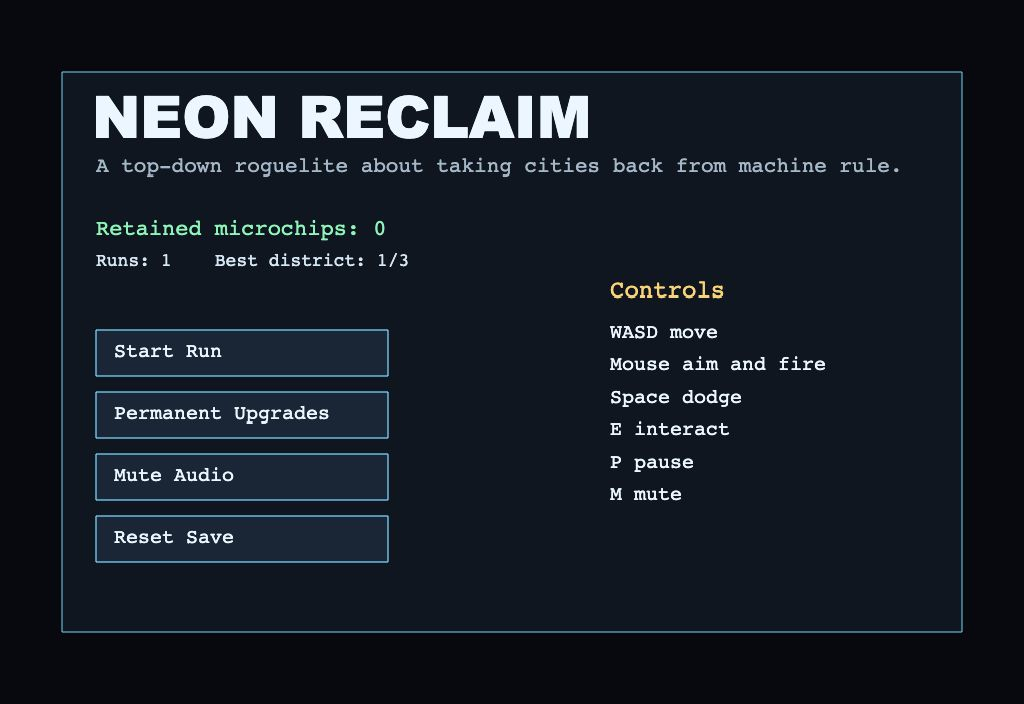
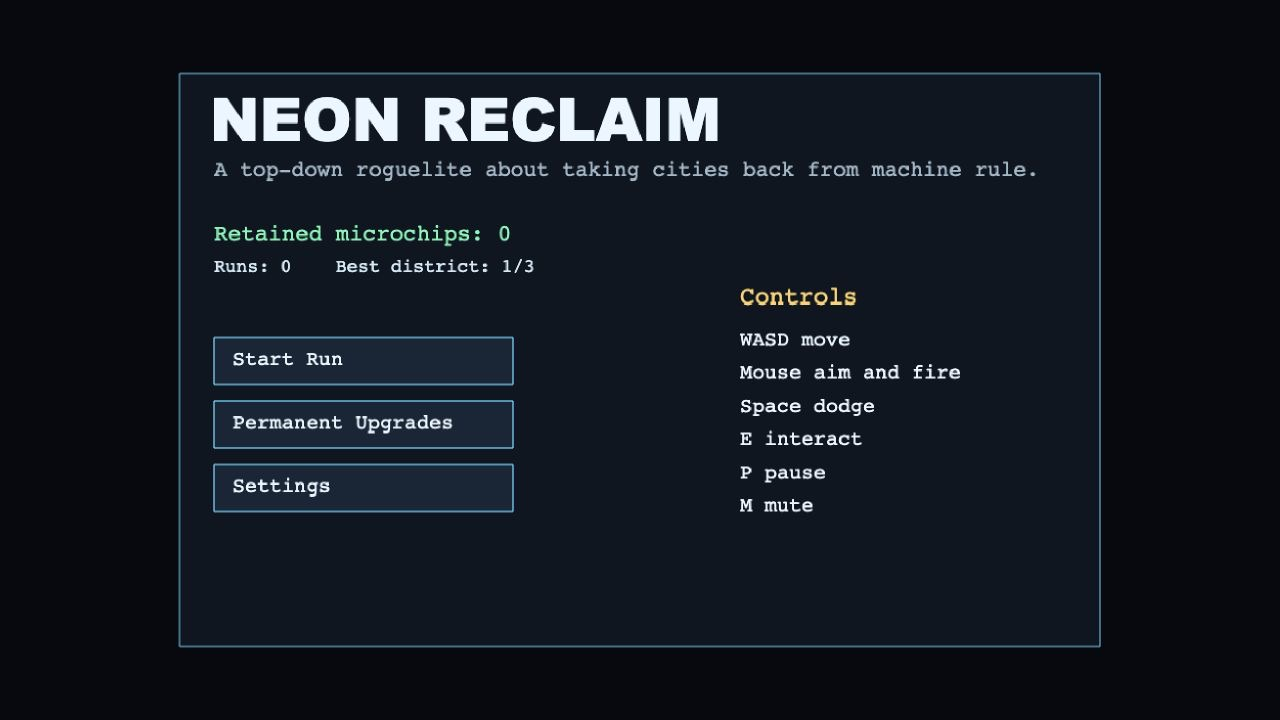
docs: refresh main menu screenshot

diff --git a/README.md b/README.md
@@ -20,15 +20,15 @@ Neon Reclaim is a browser-based sci-fi dungeon crawler built with Phaser, Vite, 
 
 ## Controls
 
-| Input               | Action                           |
-| ------------------- | -------------------------------- |
-| `W`, `A`, `S`, `D`  | Move                             |
-| Mouse click         | Aim and fire                     |
-| `Space`             | Dodge                            |
-| `E`                 | Interact                         |
-| `P`                 | Pause                            |
-| `M`                 | Mute or unmute audio             |
-| `Esc` / `Backspace` | Leave upgrade and vendor screens |
+| Input               | Action                                      |
+| ------------------- | ------------------------------------------- |
+| `W`, `A`, `S`, `D`  | Move                                        |
+| Mouse click         | Aim and fire                                |
+| `Space`             | Dodge                                       |
+| `E`                 | Interact                                    |
+| `P`                 | Pause                                       |
+| `M`                 | Mute or unmute audio                        |
+| `Esc` / `Backspace` | Leave upgrade, vendor, and settings screens |
 
 ## Tech Stack
 